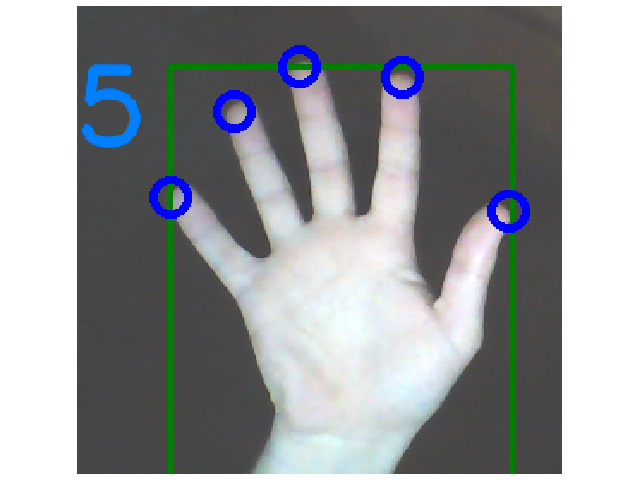
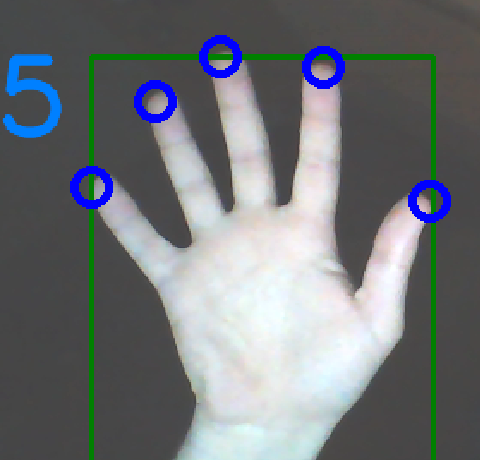
Better example picture. Updated reademe

diff --git a/README.md b/README.md
@@ -1,7 +1,10 @@
 # finger_detection
 Finger detection with openCV.
 
-##Based on and credits to:
+## Based on and credits to:
 - https://picoledelimao.github.io/blog/2015/11/15/fingertip-detection-on-opencv/
 - https://github.com/lzane/Fingers-Detection-using-OpenCV-and-Python
 - https://github.com/botforge/ColorTrackbar/blob/master/HSV%20Trackbar.py
+
+## Picture
+![Alt text](img/example.png)
